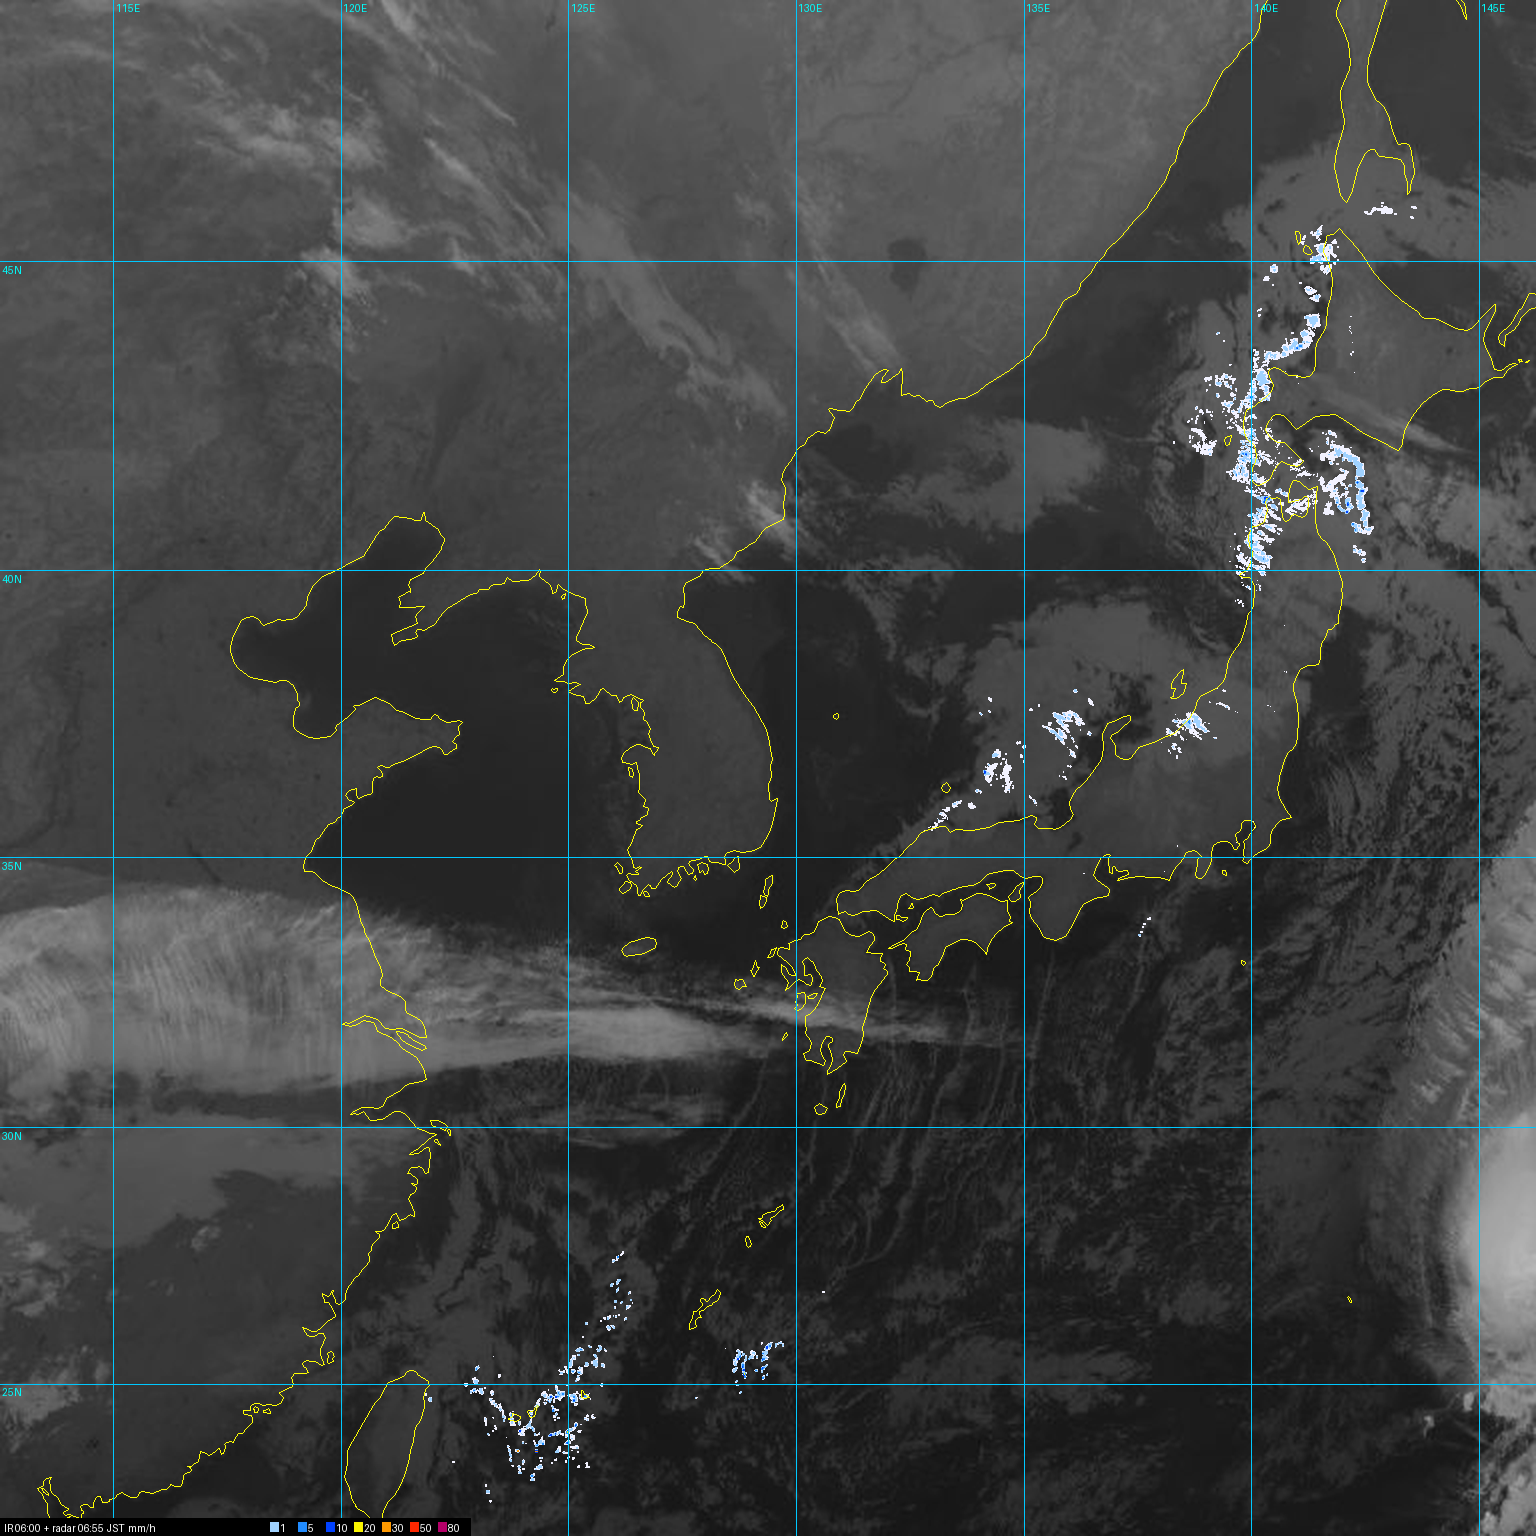
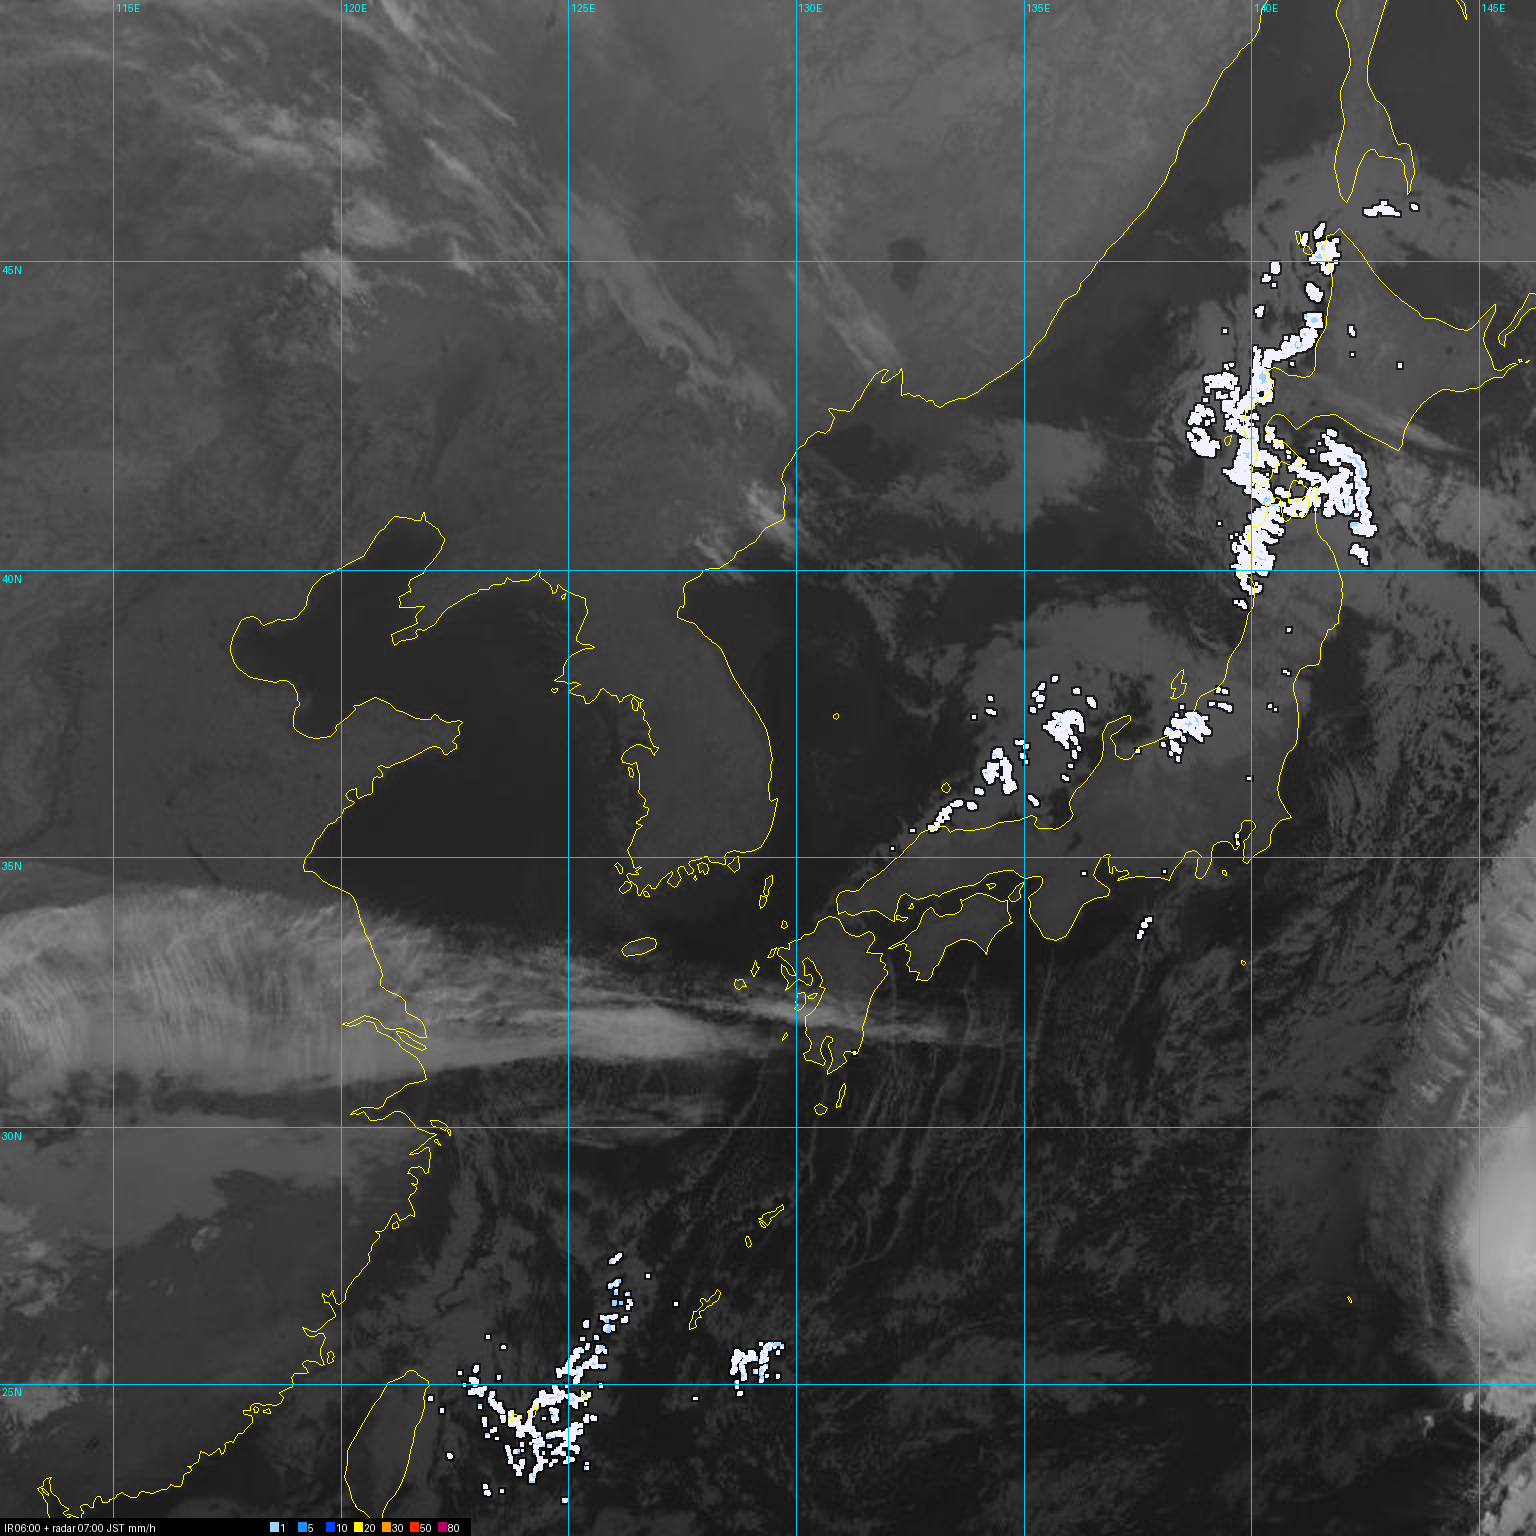
レーダーの視認性向上・キャッシュ対策・小画像を2行2列に変更

diff --git a/webui/style.css b/webui/style.css
@@ -79,12 +79,12 @@ main {
 .chart-panel { align-self: start; position: sticky; top: 8px; }
 @media (max-width: 760px) { .chart-panel { position: static; } }
 .chart-caption { margin: 6px 0 10px; font-size: 13px; color: var(--text-soft); }
-.thumbs { display: grid; grid-template-columns: repeat(4, 1fr); gap: 6px; margin-bottom: 10px; }
+.thumbs { display: grid; grid-template-columns: repeat(2, 1fr); gap: 8px; margin-bottom: 10px; }
 .thumbs button {
   border: 2px solid var(--border); background: #fff; border-radius: 6px; padding: 3px;
-  cursor: pointer; display: flex; flex-direction: column; gap: 3px; color: var(--text-soft); font-size: 11px;
+  cursor: pointer; display: flex; flex-direction: column; gap: 3px; color: var(--text-soft); font-size: 12px;
 }
-.thumbs button img { width: 100%; aspect-ratio: 1 / 1; object-fit: cover; border-radius: 3px; display: block; }
+.thumbs button img { width: 100%; aspect-ratio: 1 / 1; object-fit: contain; background: #222; border-radius: 3px; display: block; }
 .thumbs button span { line-height: 1.25; text-align: center; }
 .thumbs button.active { border-color: var(--blue); color: var(--blue); }
 .image-tabs button { font-size: 12px; padding: 4px 8px; }

diff --git a/webui/index.html b/webui/index.html
@@ -4,7 +4,7 @@
 <meta charset="UTF-8">
 <meta name="viewport" content="width=device-width, initial-scale=1">
 <title>天気図VLM解説</title>
-<link rel="stylesheet" href="style.css">
+<link rel="stylesheet" href="style.css?v=20261111b">
 </head>
 <body>
 <header>
@@ -69,6 +69,6 @@
   <p id="source-text"></p>
 </footer>
 
-<script src="script.js"></script>
+<script src="script.js?v=20261111b"></script>
 </body>
 </html>

diff --git a/fetch_chart.py b/fetch_chart.py
@@ -20,7 +20,7 @@ from datetime import datetime, timedelta
 from pathlib import Path
 
 import requests
-from PIL import Image, ImageDraw, ImageEnhance
+from PIL import Image, ImageDraw, ImageEnhance, ImageFilter
 
 BASE = "https://www.jma.go.jp/bosai"
 UA = {"User-Agent": "weather-hackathon-spike (personal research)"}
@@ -168,11 +168,18 @@ def fetch_radar(out, target_utc, z=6, x0=52, y0=22, nx=6, ny=6):
     times = get(f"{base_url}/targetTimes_N1.json").json()
     t = min(times, key=lambda x: abs(int(x["validtime"]) - int(target_utc)))
     base, valid = t["basetime"], t["validtime"]
+    layer = Image.new("RGBA", canvas.size, (0, 0, 0, 0))
     for yi in range(ny):
         for xi in range(nx):
             url = f"{base_url}/{base}/none/{valid}/surf/hrpns/{z}/{x0 + xi}/{y0 + yi}.png"
             tile = Image.open(io.BytesIO(get(url).content)).convert("RGBA")
-            canvas.alpha_composite(tile, (xi * 256, yi * 256))
+            layer.alpha_composite(tile, (xi * 256, yi * 256))
+    # 縮小表示でも見えるよう、降水域を太らせ（3px）、白い雲の上でも目立つよう黒い縁取り（7px）を付ける
+    alpha = layer.getchannel("A")
+    outline = Image.new("RGBA", canvas.size, (0, 0, 0, 0))
+    outline.putalpha(alpha.filter(ImageFilter.MaxFilter(7)).point(lambda v: 170 if v else 0))
+    canvas.alpha_composite(outline)
+    canvas.alpha_composite(layer.filter(ImageFilter.MaxFilter(3)))
     canvas = canvas.convert("RGB")
     draw_coastline(canvas, z, x0, y0)
     draw_grid(canvas, z, x0, y0)

diff --git a/MANUAL.md b/MANUAL.md
@@ -53,6 +53,8 @@
 - `.github/workflows/daily-update.yml` は `workflow_dispatch` のみ。`gh workflow run daily-update.yml` で実行（Secrets の `ANTHROPIC_API_KEY` が必要）。
 
 ## 変更履歴
+- 2026-11-11（レイアウト）: 小さな4枚をPCで荒く見えないよう、横4列から2行2列に変更（`style.css` の `.thumbs`）。
+- 2026-11-11（見やすさ）: 縮小表示でレーダーが見えない問題に対応。降水域を3px太らせ、黒い縁取り（7px）を付けた。あわせて `script.js` の `fetch` を `cache: "no-cache"` にし、JS/CSS に `?v=` を付けた（Pages のキャッシュで古い画像一覧が出るのを防ぐ。旧表示が残って見える場合は強制再読み込み）。
 - 2026-11-11（表示レイアウト）: 公開ページの画像パネルを「大きな1枚＋小さな4枚」に変更。
   - 4枚は 衛星赤外＋レーダー（`sat_radar`）／日本近海の地上天気図／24時間予想／48時間予想。クリックで大きな1枚に切替。PCでは解説を読む間も画像が追従（sticky）。アジア太平洋の図・広域赤外・アジア予想図は下の文字タブから切替。
   - 赤外には z=6 が無いため、背景は z=5 を2倍拡大。レーダーは赤外より新しい5分値になることがある（画像下部に両方の時刻を表示）。
